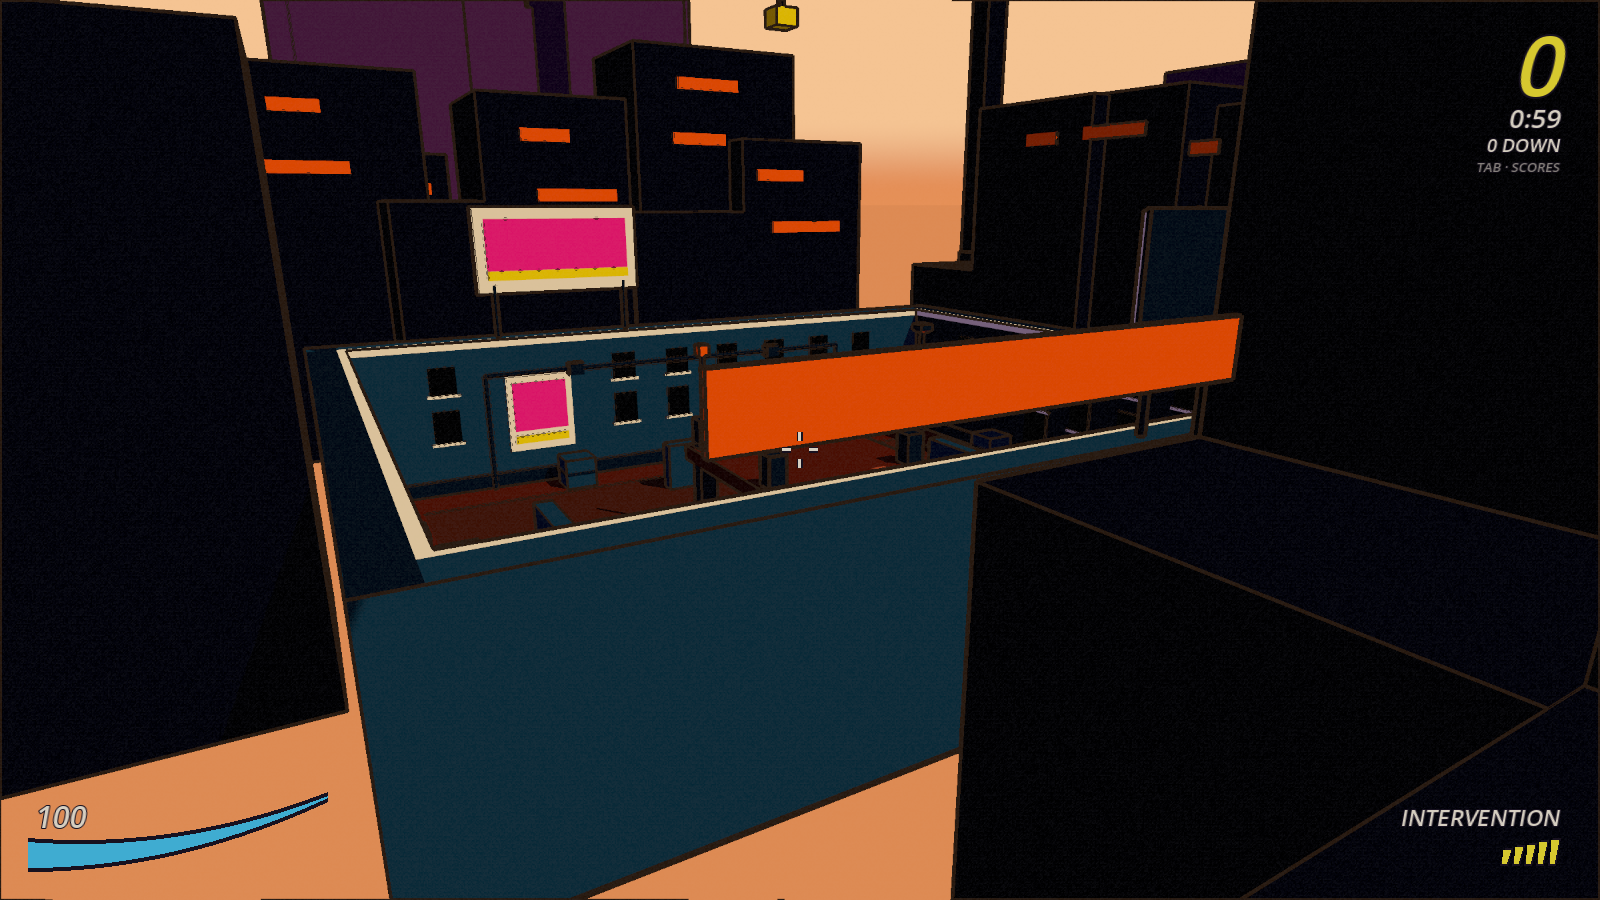
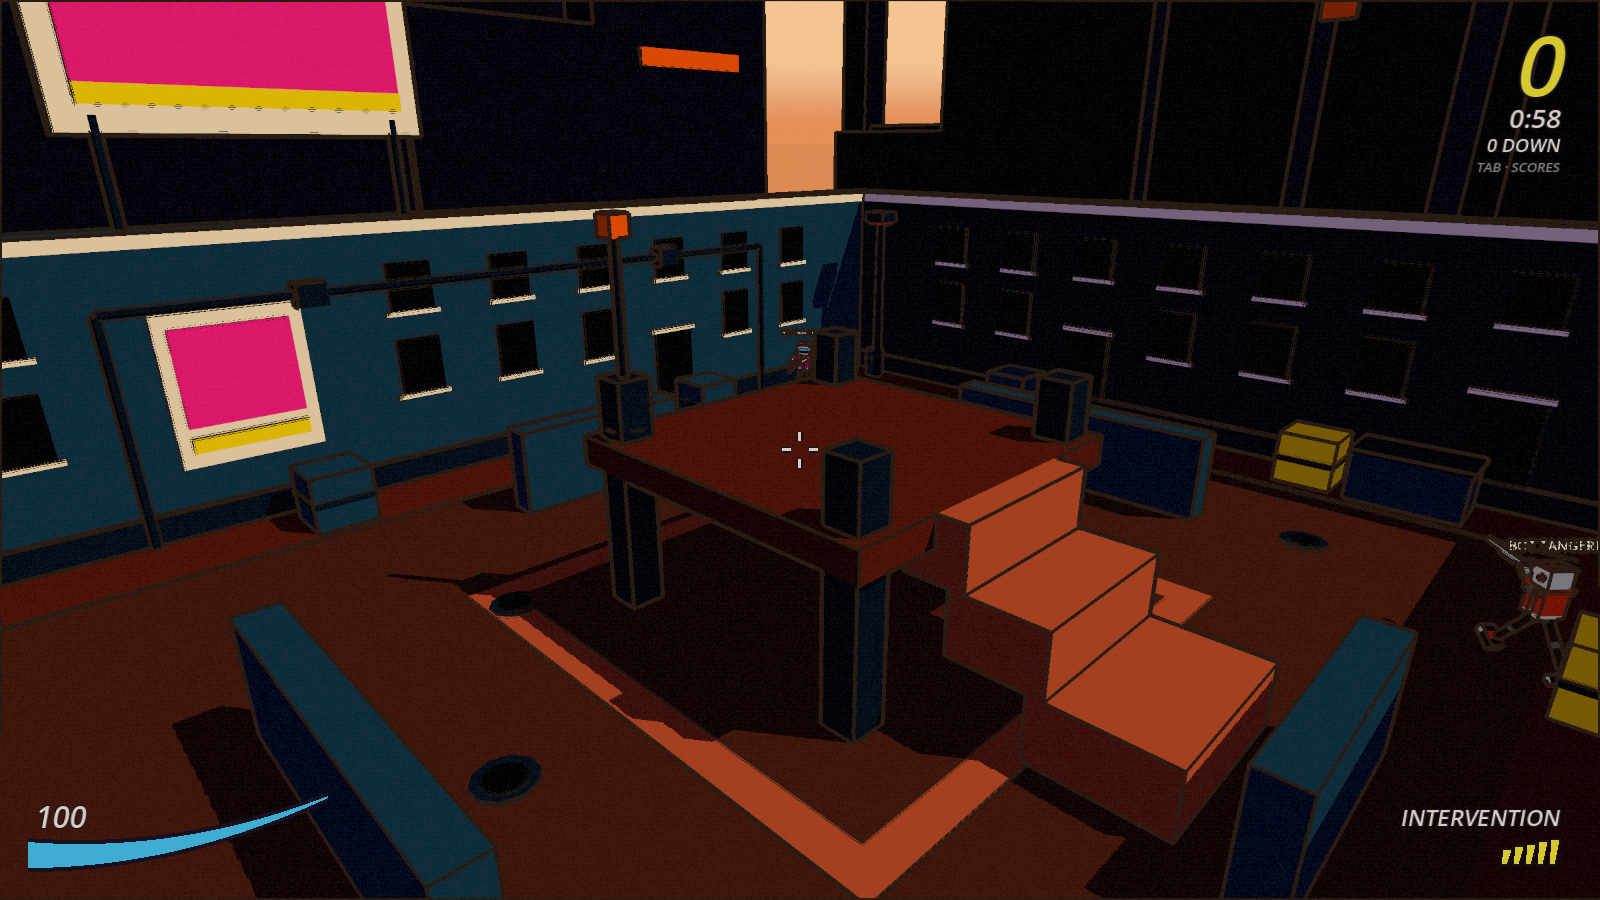
Showcase camera from the layout: the pit's vantage stands inside its walls
--spectate used one fixed vantage that suited the 48 x 40 m arena and stood 13 m outside
THE PIT's walls, so last_stand_pit.png had been a view of a wall's outside. A layout may now
carry "showcase": {pos, look}; the pit's camera sits inside its SW corner. Frame retaken.

diff --git a/DECISIONS.md b/DECISIONS.md
@@ -154,3 +154,4 @@ Append-only. One line per assumption: date, the decision, the reason. Newest at 
 - 2026-09-20 — Auto quality (`core/quality.gd`, `AutoQuality`): the RENDER SCALE setting is now a cap (default 1.5) and the game steps the 3D scale down by 0.25 (to a floor of 0.75) whenever the frame's measured GPU time runs over 11.7 ms at the 90th percentile of a second, and back up after 5 calm seconds with room for the next step's extra pixels; one change per 3 s, the first 2 s after a scene switch ignored, hitch frames ignored. The budget is a 60 Hz frame's worth whatever the monitor, so a 144 Hz monitor never trades sharpness for frames above 60. `--render_scale=N` pins the scale and turns it off; `--gpu_budget_ms=N` forces it for a test (0.5 ms at 1080p: 1.5 → 1.25 → 1.0, three seconds apart, then held; the real budget never moves it on the 5090). The point: a friend on a weak GPU runs well without opening SETTINGS.
 - 2026-09-20 — Window and vsync are settings (SETTINGS → WINDOW: WINDOWED / FULLSCREEN, VSYNC on/off; F11 toggles fullscreen anywhere), persisted in settings.json. Vsync is on by default now (the project setting too): the friends' 60 Hz monitors would tear and burn GPU for nothing with it off; `--vsync=0` and `--window=fullscreen|windowed` override for harness runs. Fullscreen is Godot's borderless fullscreen at the desktop resolution. Verified: `--window=fullscreen` reports 5120×2160 with vsync on.
 - 2026-09-20 — Arena dressing pass (`fps/match/map_dressing.gd`, `MapDressing.dress`): the gray-box was the one thing in the 1080p frames that still looked unfinished, so every FPS map now gets a city around and on it, all as decor (meshes without collision) appended to the layout, so the boxes, spawns and the tested bot graph are untouched and the layout tests still hold. Outside the walls: two bands of blocks sized to show over the 6 m wall from anywhere on the floor (10–18 m tall 5–17 m out, 18–40 m tall 22–46 m out, from the eye-height geometry), with lit window strips on the near band, water tanks and antennas on the far one, a tower crane and a radio mast as landmarks. On the walls: two rows of windows and doors on a 2.4 m pitch that keep clear of the posters, a cornice and a plinth, pipes with junction boxes, two billboards standing on the wall tops (with a dark back for the roofs). Every free-standing building gets windows on all faces and a roof unit; every crate a strap band; the highest deck a beacon mast; the floor a plaza slab, sidewalks and drain grates; the corners barrels and a dumpster by the east wall. Three palette tones added per map (skyline, skyline_far, window), so LAST STAND's dusk pit gets navy blocks with orange windows under its own sky. Cost at 1080p on the 5090: 409 → 744 objects, GPU 0.64 → 0.66 ms mean, map build 1 → 9 ms; the switch frame 162 ms under the wipe. Sean's verdict on the look is pending; the shape of the play is unchanged.
+- 2026-09-20 — A layout may carry its own showcase vantage (`"showcase": {pos, look}`, read by `--spectate`): the fixed arena vantage stood 13 m outside THE PIT's walls, so `last_stand_pit.png` had been a view of a wall's outside; the pit's camera now stands inside its SW corner.

diff --git a/STATUS.md b/STATUS.md
@@ -485,8 +485,8 @@ run on it.
 2. Windows export for friends: install the 4.7.2 export templates (Editor → Manage Export
    Templates; `%APPDATA%\Godot\export_templates` is empty) and add a Windows Desktop preset;
    nothing platform-specific has been written.
-3. Then the older list: a third-person or objective minigame, the real map pass and proper
-   viewmodels, the display face.
+3. Then: a third-person or objective minigame, proper viewmodels, the display face (the map
+   pass is in as dressing, pending his verdict).
 
 ## 2026-09-20 — session 6: for the friends' machines
 
